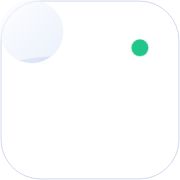
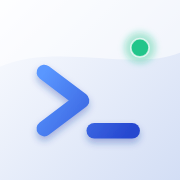
기기 간 읽음 합치기·폰 아이콘

diff --git a/js/app.js b/js/app.js
@@ -362,7 +362,7 @@ async function refreshPush() {
   if (S.push === 'on') { lsSet('svcmon.push.want', true); Push.enablePush(S.sb).catch((e) => console.warn('push sync', e)); } // 이 기기의 구독이 현재 계정 것으로 저장되게 맞춘다
 }
 function onReady() {
-  S.ready = true; S.slow = false;
+  S.ready = true; S.slow = false; clearShownNotifs();
   renderChrome(); renderView(); bootSplash();
   gcOnce(); syncSoon(); Push.registerSW();
   S.timers.push(setInterval(() => { gcOnce(); schedule(); }, 60_000));
@@ -468,7 +468,14 @@ const notifDoc = () => sd(notifDocId());
 const notifBase = () => notifDoc().base || 0;
 const notifRead = () => new Set(notifDoc().ids || []);
 const isUnreadItem = (i, base, read) => i.ts > base && !read.has(i.id);
-const saveNotif = (base, ids, seen = notifDoc().seen || {}) => (S.store ? S.store.set('shared', notifDocId(), { kind: 'notif', v: 2, base, ids, seen }).catch((e) => console.warn('notif read', e)) : null);
+// 기기 여러 대가 같은 문서를 쓰므로 읽음은 앞으로만 간다: 지금 알고 있는 값과 합쳐서 쓰고(큰 값·합집합), 서버도 한 번 더 합친다 (DB 017)
+const saveNotif = (base, ids, seen = {}) => {
+  if (!S.store) return null;
+  const cur = notifDoc(), old = cur.seen || {}, merged = { ...old };
+  for (const [k, v] of Object.entries(seen)) merged[k] = Math.max(Number(old[k]) || 0, Number(v) || 0);
+  const allIds = [...new Set([...(cur.ids || []), ...ids])].slice(-300);
+  return S.store.set('shared', notifDocId(), { kind: 'notif', v: 2, base: Math.max(Number(cur.base) || 0, Number(base) || 0), ids: allIds, seen: merged }).catch((e) => console.warn('notif read', e));
+};
 // 알림 문구가 바뀌면서(영어 → Feedback/Ack 말투) 알림 id 가 달라졌다: 계정마다 처음 한 번만 지금까지의 알림을 읽은 것으로 맞춘다
 function migrateNotifIds() {
   if (!S.ready || !S.store || S.notifMig || notifDoc().v === 2) return;
@@ -477,6 +484,9 @@ function migrateNotifIds() {
 const notifUnread = () => { migrateNotifIds(); const base = notifBase(), read = notifRead(); return activityFeed().filter((i) => isUnreadItem(i, base, read)).length; };
 function markRead(id) { const ids = [...new Set([...(notifDoc().ids || []), id])].slice(-300); saveNotif(notifBase(), ids); }
 function markAllRead() { saveNotif(Math.max(notifBase(), seenNow()), []); }
+// 앱을 열거나 다시 화면에 띄우면, 폰 알림 센터에 쌓인 이 앱의 알림을 지운다 (이미 앱 안에서 보고 있으니까). 지원하지 않는 기기에서는 아무 일도 하지 않는다
+const clearShownNotifs = () => { try { navigator.serviceWorker?.getRegistration?.().then((r) => r?.getNotifications?.()).then((ns) => ns?.forEach((n) => n.close())).catch(() => {}); } catch { /* 없음 */ } };
+document.addEventListener('visibilitychange', () => { if (!document.hidden) clearShownNotifs(); });
 function closeNotif() { S.notifOpen = false; $('#notif')?.remove(); }
 function toggleNotif() { if (S.notifOpen) { closeNotif(); renderChrome(); return; } S.notifOpen = true; renderNotif(); renderChrome(); }
 function renderNotif() {

diff --git a/js/changelog.js b/js/changelog.js
@@ -2,6 +2,11 @@
 // items: [종류, 내용] — 종류는 new(새 기능) · change(바뀐 것) · fix(고친 것). 내용은 명사형으로 짧게, 요점만.
 export const CL_TAGS = ['new', 'change', 'fix'];
 export const CHANGELOG = [
+  { id: '2026-11-16-a', date: '11/16', title: '기기 간 읽음·폰 아이콘', items: [
+    ['fix', '한 기기에서 읽은 알림·new 표시가 다른 기기에서 되살아나던 문제'],
+    ['change', '앱을 열면 폰 알림 센터에 쌓인 이 앱 알림을 지움'],
+    ['fix', '폰 홈 화면 아이콘 모서리가 검게·작게 보이던 문제'],
+  ] },
   { id: '2026-11-15-b', date: '11/15', title: '화면 잘림·로고 색·상태 초기화·아젠다', items: [
     ['fix', 'PC 에서 Dashboard 등 아래쪽 내용이 잘리던 문제'],
     ['change', '로고 색이 테마(Dark·Light·Excel)에 맞게 바뀜'],

diff --git a/index.html b/index.html
@@ -13,8 +13,8 @@
 <meta name="apple-mobile-web-app-status-bar-style" content="black-translucent">
 <link rel="stylesheet" href="https://cdn.jsdelivr.net/gh/orioncactus/pretendard@v1.3.9/dist/web/variable/pretendardvariable-dynamic-subset.min.css">
 <link rel="manifest" href="manifest.webmanifest">
-<link rel="apple-touch-icon" href="icons/icon-180.png?v=3">
-<link rel="icon" type="image/png" href="icons/icon-192.png?v=3">
+<link rel="apple-touch-icon" href="icons/icon-180.png?v=4">
+<link rel="icon" type="image/png" href="icons/icon-192.png?v=4">
 </head>
 <body>
 <div id="app"></div>

diff --git a/js/version.js b/js/version.js
@@ -1,1 +1,1 @@
-export const BUILD = '20261115232131';
+export const BUILD = '20261116102629';
